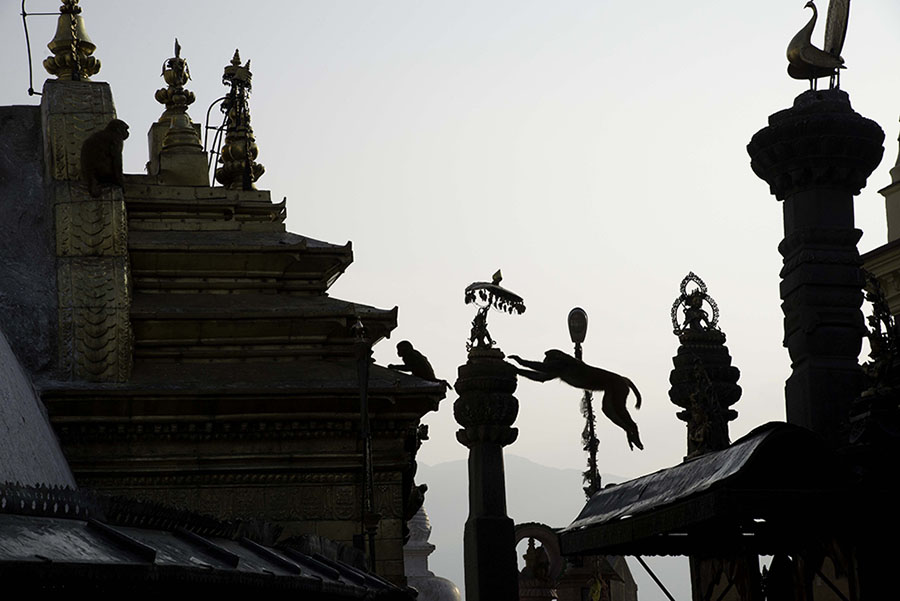
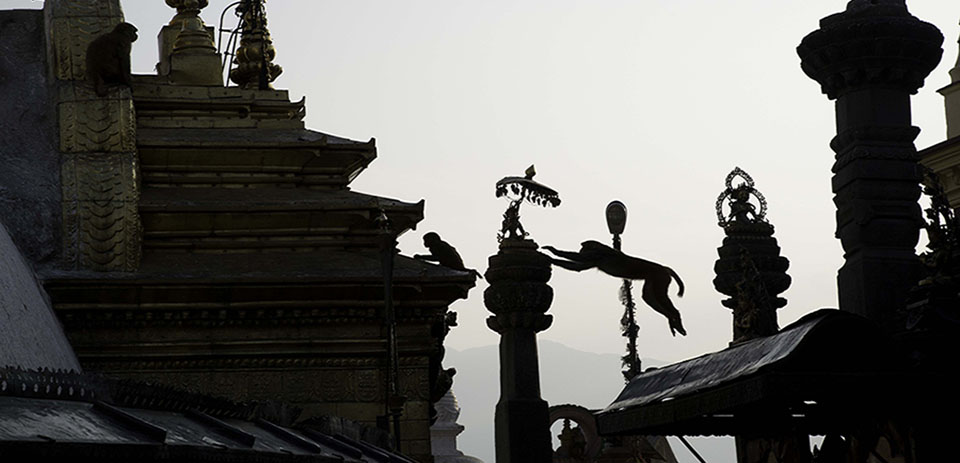
modify images, style all html pages

diff --git a/html/activities.html b/html/activities.html
@@ -4,6 +4,7 @@
       <title>South Asia - Activities</title>
       <link href="../css/meyersreset.css" type="text/css" rel="stylesheet"/>
       <link href="../css/skeleton.css" type="text/css" rel="stylesheet"/>
+      <link href='http://fonts.googleapis.com/css?family=PT+Sans+Narrow:400,700|Handlee' rel='stylesheet' type='text/css'>
       <link href="../css/style.css" type="text/css" rel="stylesheet"/>
       <meta charset="utf-8">
       <meta http-equiv="X-UA-Compatible" content="IE=edge">
@@ -11,15 +12,20 @@
       <meta name="viewport" content="width=device-width, initial-scale=1">
     </head>
     <body>
-      <img src="../imgs/Nepal/elephantlogo.jpg"/>
-      <h1>Discover</h1>
-      <h2>South Asia</h2>
-      <nav>
-        <a href="activities.html">Trip Planner</a>
-        <a href="resource.html">Resources</a>
-        <a href="about.html">About Us</a>
-        <a href="../index.html">Home</a>
+     <div class="container">
+     <header class="header twelve columns">
+      <img class="two columns logo"src="../imgs/Nepal/elephantlogo.jpg"/>
+      <h1 class="three columns title">Discover</h1>
+      <h2 class="five columns subTitle">South Asia</h2>
+     </header>
+     <section class="twelve columns">
+      <nav class="twelve columns navigate">
+        <a class="three columns"href="activities.html">Trip Planner</a>
+        <a class="three columns"href="resource.html">Resources</a>
+        <a class="three columns"href="about.html">About Us</a>
+        <a class="three columns"href="../index.html">Home</a>
       </nav>
+     </section>
       <h2> Trip Specifics </h2>
         <input type="text" id="inName" placeholder="Enter your name">
         <input type="text" id="inEmail" placeholder="Enter your email address">

diff --git a/html/resource.html b/html/resource.html
@@ -4,6 +4,7 @@
       <title>South Asia - Resource</title>
       <link href="../css/meyersreset.css" type="text/css" rel="stylesheet"/>
       <link href="../css/skeleton.css" type="text/css" rel="stylesheet"/>
+      <link href='http://fonts.googleapis.com/css?family=PT+Sans+Narrow:400,700|Handlee' rel='stylesheet' type='text/css'>
       <link href="../css/style.css" type="text/css" rel="stylesheet"/>
       <meta charset="utf-8">
       <meta http-equiv="X-UA-Compatible" content="IE=edge">
@@ -11,15 +12,20 @@
       <meta name="viewport" content="width=device-width, initial-scale=1">
     </head>
     <body>
-      <img src="../imgs/Nepal/elephantlogo.jpg"/>
-      <h1>Discover</h1>
-      <h2>South Asia</h2>
-      <nav>
-        <a href="activities.html">Trip Planner</a>
-        <a href="resource.html">Resources</a>
-        <a href="about.html">About Us</a>
-        <a href="../index.html">Home</a>
+     <div class="container">
+     <header class="header twelve columns">
+      <img class="two columns logo"src="../imgs/Nepal/elephantlogo.jpg"/>
+      <h1 class="three columns title">Discover</h1>
+      <h2 class="five columns subTitle">South Asia</h2>
+     </header>
+     <section class="twelve columns">
+      <nav class="twelve columns navigate">
+        <a class="three columns"href="activities.html">Trip Planner</a>
+        <a class="three columns"href="resource.html">Resources</a>
+        <a class="three columns"href="about.html">About Us</a>
+        <a class="three columns"href="../index.html">Home</a>
       </nav>
+     </section>
       <article>
       </article>
         <h2>Trip Planning Resources</h2>

diff --git a/index.html b/index.html
@@ -23,15 +23,15 @@
         <a class="three columns"href="html/activities.html">Trip Planner</a>
         <a class="three columns"href="html/resource.html">Resources</a>
         <a class="three columns"href="html/about.html">About Us</a>
-        <a class="three columns"href="index.html">Home</a>
+        <a class="three columns"href="../index.html">Home</a>
       </nav>
      </section>
       <section class="slideShow twelve columns">
        <img class="photo"src="imgs/Nepal/nepal2.jpg"/>
        <img class="photo"src="imgs/Nepal/nepal4.jpg"/>
-       <img class="photo"class="photo"src="imgs/Nepal/nepal6.jpg"/>
-       <img class="photo"src="imgs/Bali/IMG_3560.jpg"/>
-       <img class="photo"src="imgs/Bali/IMG_3575.jpg"/>
+       <img class="photo"src="imgs/Nepal/nepal6.jpg"/>
+       <img class="photo"src="imgs/Bali/IMG_3560Bali.jpg"/>
+       <img class="photo"src="imgs/Bali/IMG_3575Bali.jpg"/>
        <img class="photo"src="imgs/Thailand/IMG_1845.jpg"/>
        <img class="photo"src="imgs/Thailand/IMG_1862.jpg"/>
       </section>

diff --git a/html/about.html b/html/about.html
@@ -12,12 +12,11 @@
       <meta name="viewport" content="width=device-width, initial-scale=1">
     </head>
     <body>
-      <div class="container">
-<!--       <img src="../imgs/Nepal/monastery.jpg"/>
- -->     <header class="header twelve columns">
-        <img class="two columns logo"src="../imgs/Nepal/elephantlogo.jpg"/>
-        <h1 class="three columns title">Discover</h1>
-        <h2 class="five columns subTitle">South Asia</h2>
+     <div class="container">
+     <header class="header twelve columns">
+      <img class="two columns logo"src="../imgs/Nepal/elephantlogo.jpg"/>
+      <h1 class="three columns title">Discover</h1>
+      <h2 class="five columns subTitle">South Asia</h2>
      </header>
      <section class="twelve columns">
       <nav class="twelve columns navigate">

diff --git a/css/style.css b/css/style.css
@@ -26,7 +26,6 @@ html {
 .navigate {
   text-align: center;
   font-family: 'Handlee';
-  font-weight: bold;
   color: #000000;
   font-size: 18px;
 }
@@ -35,6 +34,7 @@ a:link {
 }
 a:visited {
   color: #1A0000;
+  font-weight: bold;
 }
 /*body {
   background-image: url(../imgs/Nepal/monastery.jpg);
@@ -44,7 +44,7 @@ a:visited {
   background-image: url(../imgs/Nepal/monastery.jpg);
 }
 .slideShow {
-  height: 600px;
+  height: 465px;
   margin-bottom: 100px;
   margin-top: 20px;
 }
